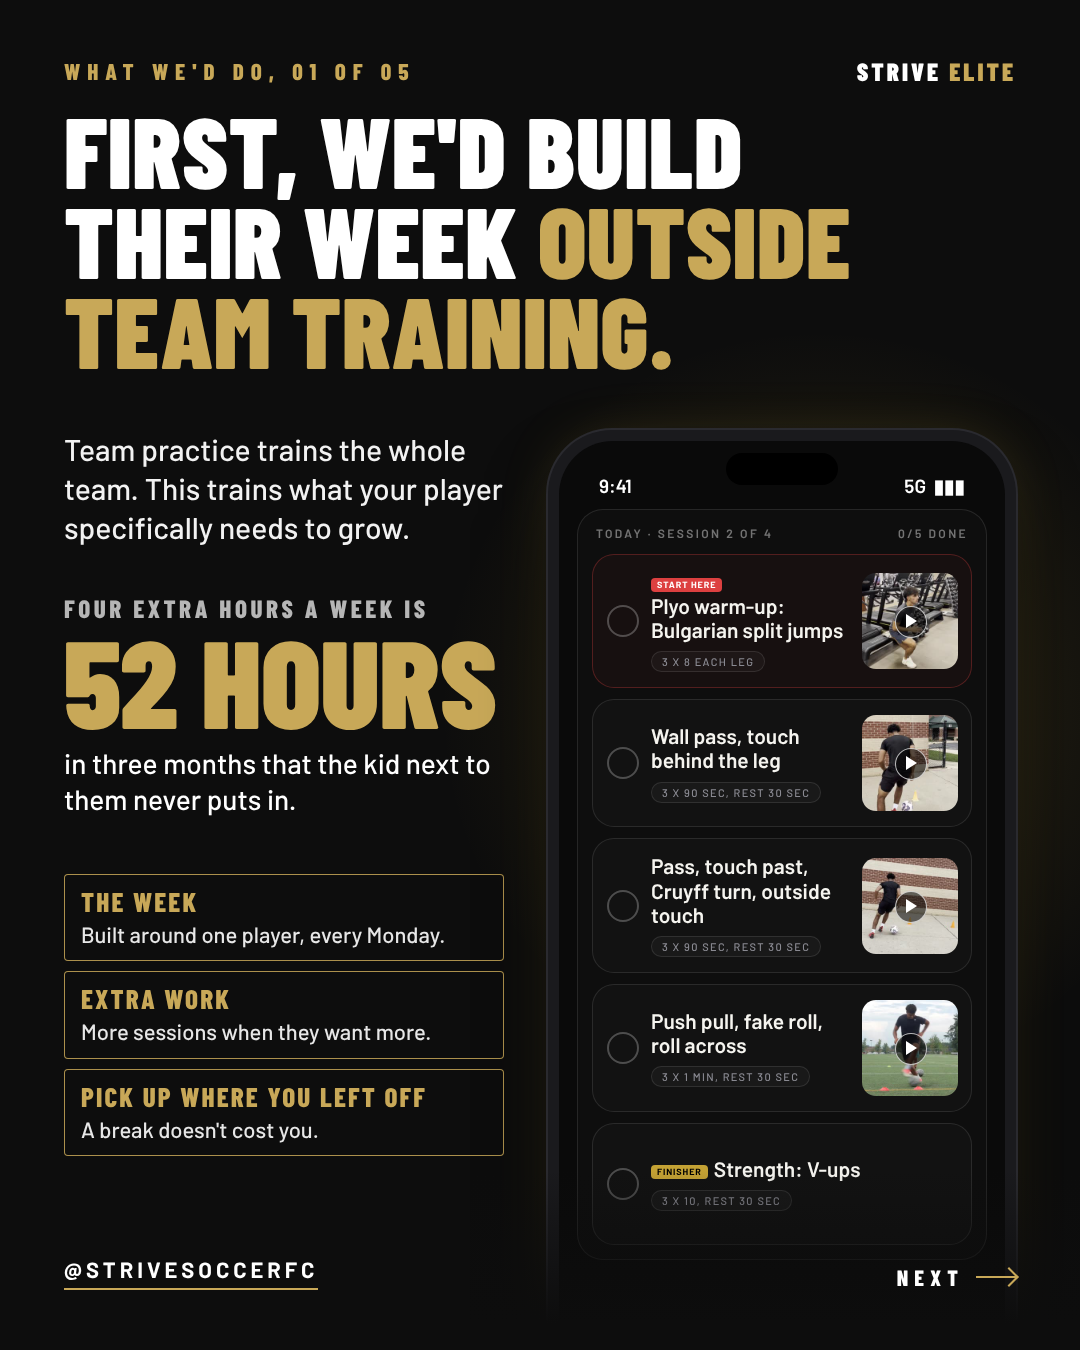
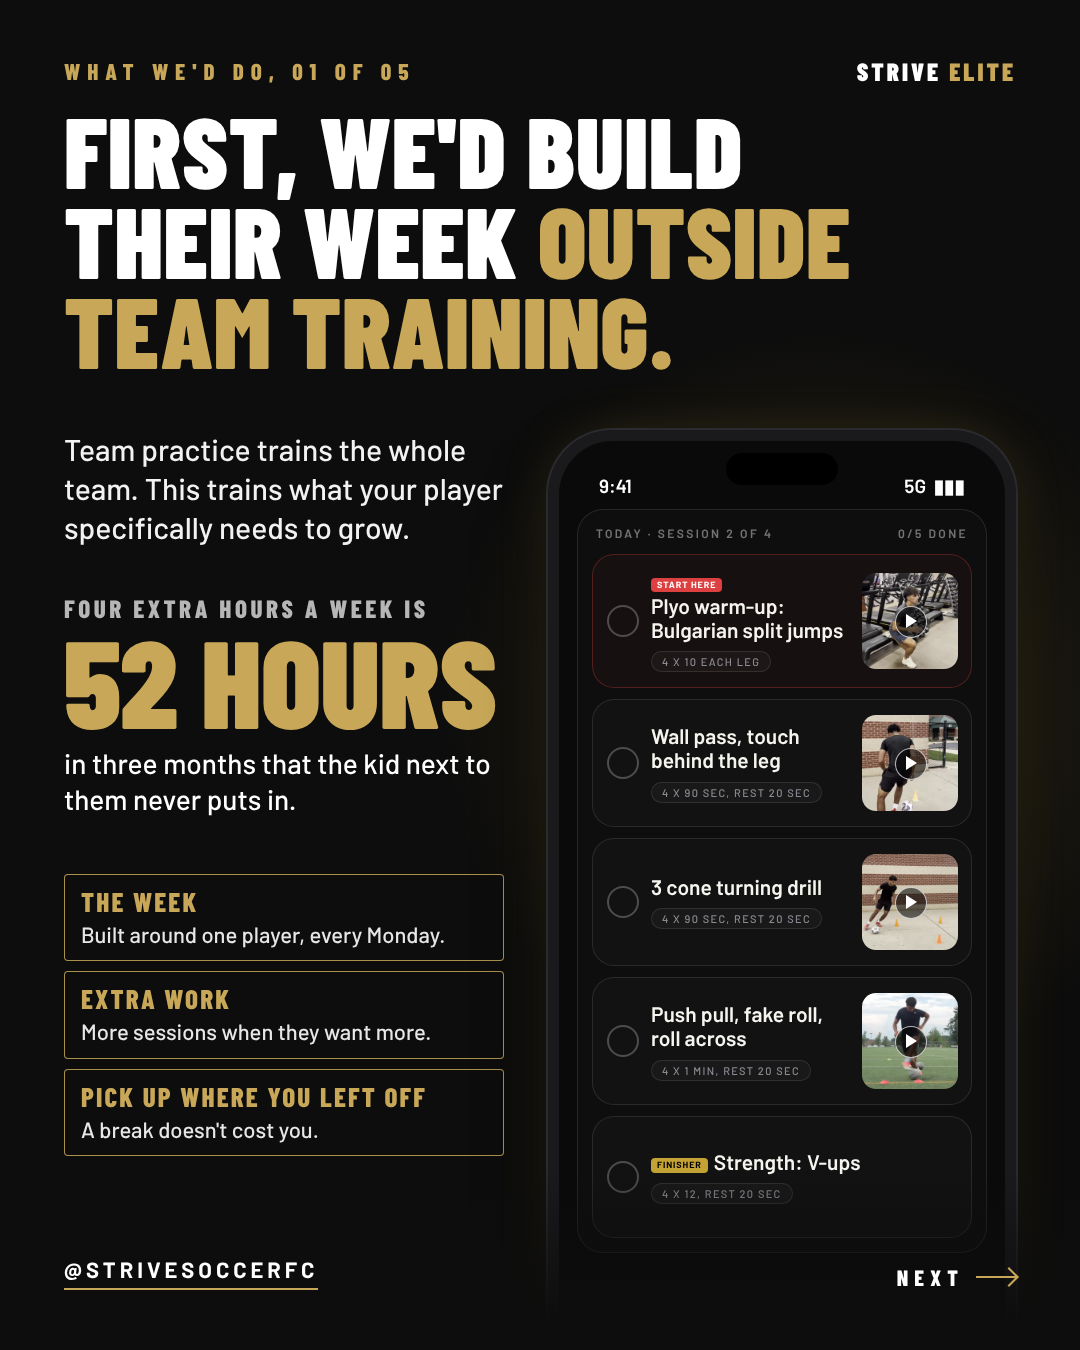
Offer carousel: slide 2 third drill and tougher sets and reps
Claude-Session: https://claude.ai/code/session_011JsCTTjCbUkHbTuWTKQSXJ

diff --git a/marketing/announcement/offer-post/step1.html b/marketing/announcement/offer-post/step1.html
@@ -86,11 +86,11 @@ h1 span{color:#c8a858}
   <div class="sess">
     <div class="sh"><span>Today · Session 2 of 4</span><span>0/5 done</span></div>
     <div class="cards">
-      <div class="card start"><div class="ck"></div><div class="tx"><div class="tt"><span class="bd red">Start here</span><span style="white-space:nowrap">Plyo warm-up:</span> Bulgarian split jumps</div><span class="chip">3 x 8 each leg</span></div><div class="th"><img src="app/plyo-bulgarian-split-jumps.jpg"></div></div>
-      <div class="card"><div class="ck"></div><div class="tx"><div class="tt">Wall pass, touch behind the leg</div><span class="chip">3 x 90 sec, rest 30 sec</span></div><div class="th"><img src="app/wall-pass-behind-the-leg.jpg"></div></div>
-      <div class="card"><div class="ck"></div><div class="tx"><div class="tt">Pass, touch past, Cruyff turn, outside touch</div><span class="chip">3 x 90 sec, rest 30 sec</span></div><div class="th"><img src="app/pass-cruyff-turn-outside.jpg"></div></div>
-      <div class="card"><div class="ck"></div><div class="tx"><div class="tt">Push pull, fake roll, roll across</div><span class="chip">3 x 1 min, rest 30 sec</span></div><div class="th"><img src="app/push-pull-fake-roll.jpg"></div></div>
-      <div class="card"><div class="ck"></div><div class="tx"><div class="tt"><span class="bd gold">Finisher</span>Strength: V-ups</div><span class="chip">3 x 10, rest 30 sec</span></div></div>
+      <div class="card start"><div class="ck"></div><div class="tx"><div class="tt"><span class="bd red">Start here</span><span style="white-space:nowrap">Plyo warm-up:</span> Bulgarian split jumps</div><span class="chip">4 x 10 each leg</span></div><div class="th"><img src="app/plyo-bulgarian-split-jumps.jpg"></div></div>
+      <div class="card"><div class="ck"></div><div class="tx"><div class="tt">Wall pass, touch behind the leg</div><span class="chip">4 x 90 sec, rest 20 sec</span></div><div class="th"><img src="app/wall-pass-behind-the-leg.jpg"></div></div>
+      <div class="card"><div class="ck"></div><div class="tx"><div class="tt">3 cone turning drill</div><span class="chip">4 x 90 sec, rest 20 sec</span></div><div class="th"><img src="app/triangle-turning.jpg"></div></div>
+      <div class="card"><div class="ck"></div><div class="tx"><div class="tt">Push pull, fake roll, roll across</div><span class="chip">4 x 1 min, rest 20 sec</span></div><div class="th"><img src="app/push-pull-fake-roll.jpg"></div></div>
+      <div class="card"><div class="ck"></div><div class="tx"><div class="tt"><span class="bd gold">Finisher</span>Strength: V-ups</div><span class="chip">4 x 12, rest 20 sec</span></div></div>
     </div>
   </div>
 </div></div>

diff --git a/CLAUDE.md b/CLAUDE.md
@@ -3660,6 +3660,21 @@ commit.
       the clip. The finisher is now a CORE drill from the bank:
       Strength: V-ups, 3 x 10, rest 30 sec (was Single leg RDL). Still
       no thumbnail, same reason. Preview strip rebuilt. Sent.
+      THEN (Coach Yinka: "For the 3rd drill do the 3 cone turning
+      drill. And make sets and reps a bit more intense"): drill 3 is
+      now "3 cone turning drill" (Passing, wall drill, clip
+      triangle-turning.mp4, frame at 2.4 s). THE NUMBERS ON SLIDE 2 NOW
+      DIFFER FROM THE BANK, by his ask, and the slide is the only
+      place they are stated: Bulgarian split jumps 4 x 10 each leg
+      (bank: 3 x 8); Wall pass behind the leg 4 x 90 sec, rest 20 sec
+      (bank 3 x 90, rest 30); 3 cone turning drill 4 x 90 sec, rest 20
+      sec (bank 3 x 90, rest 30); Push pull, fake roll 4 x 1 min, rest
+      20 sec (bank 3 x 1, rest 30); V-ups 4 x 12, rest 20 sec (bank 3
+      x 10, rest 30). Sets +1, rest -10 sec, reps up a little. THE
+      APP STILL SHOWS THE BANK NUMBERS: a parent who opens a session
+      sees the old ones. Flagged to him with the one-tap fix (edit the
+      reps at /coach/drills so the app matches the graphic); not done,
+      it is a drill-bank change and his coaching call. Sent.
 
 ## Growth target (stamped Sept 19, Coach Yinka's own call)
 
